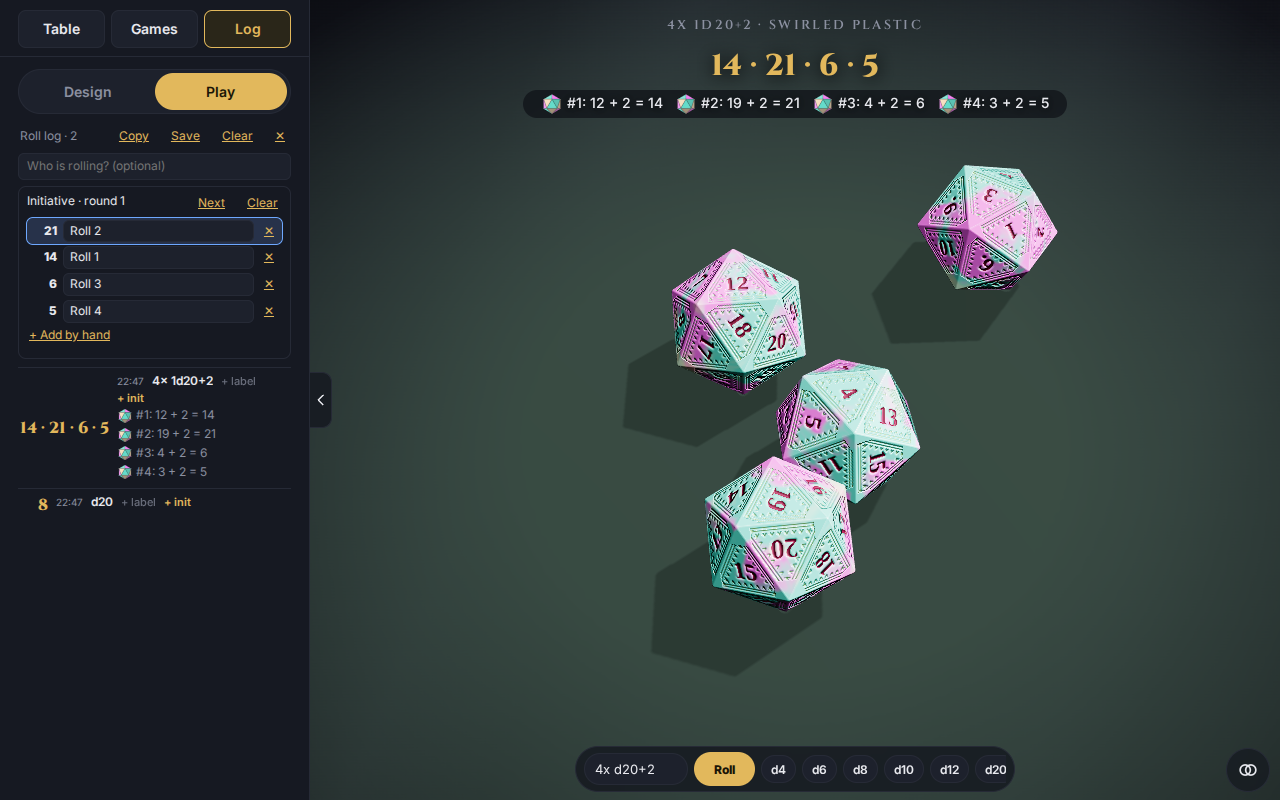
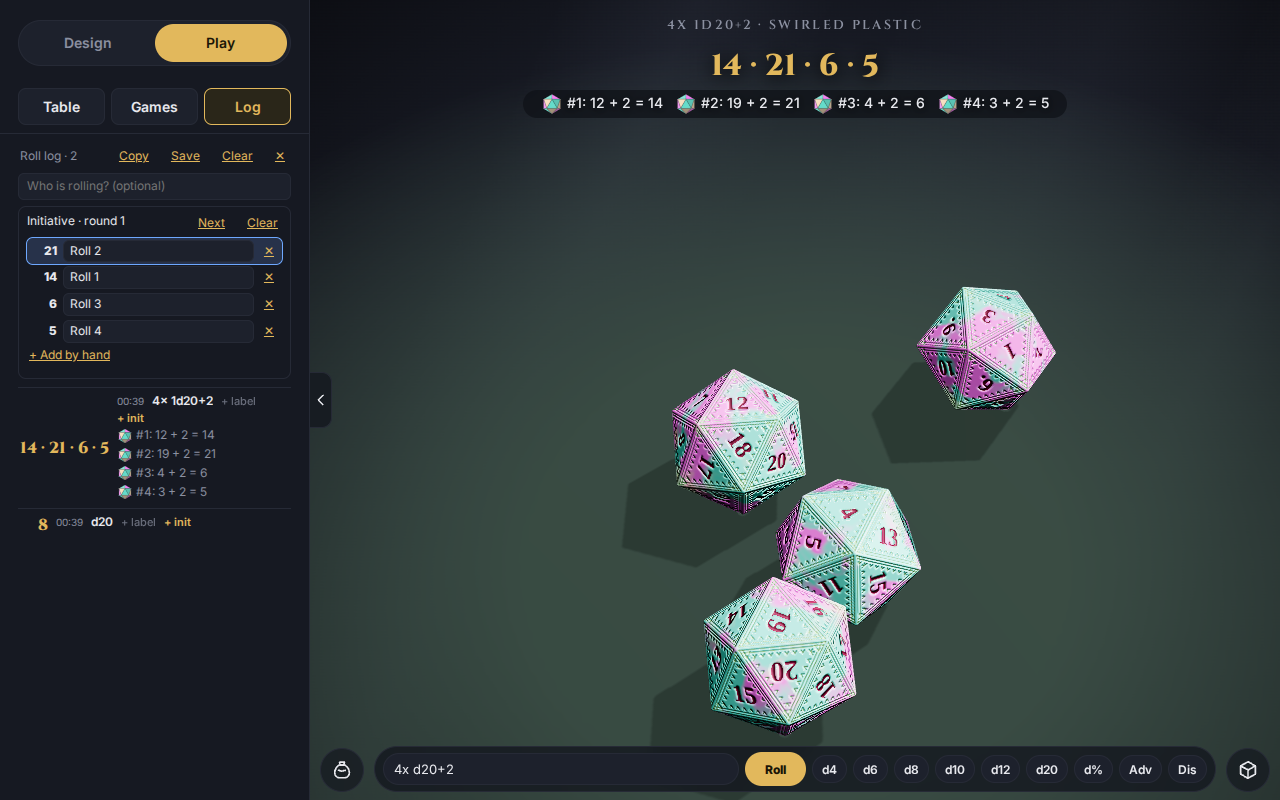
Play view: resting dice sit ~40% up from the bottom instead of ~55% (PD-142.38.61)

diff --git a/index.html b/index.html
@@ -2118,6 +2118,7 @@ const NEW_FEATURES=[   // PD-142.38.31: only changes since artifact v19 that the
   {id:'PD-142.38.24', rev:1, anchor:'#cat-base', text:'The design controls are now sorted into two category sections. BASE (the die body): Substrate; Colors (base colours + Randomize, Swirl scale, Edge radius, Finish); Stone; Epoxy; Face panel & patina (Face panel, Panel depth, Patina, Antique relief preset); Filigree. NUMBERS (the numerals): Paint numbers, Number paint, Paint mode (Paint numbers comes first now), Font, d4 numbers, d6 faces, Size, Rotation, Depth, Edge softness, Number style (Inset / Raised; the old "Numbers" selector in Relief). Nothing else changed: same controls, ids and saved designs. Check: Design pane, scroll through Base then Numbers and say if any control belongs on the other side.', card:'PD-142.38.24'},
   {id:'PD-142.38.58', rev:1, anchor:'#name', text:'On a phone the hold-to-look-from-above handle (the small eye) moved from the top-left of the mat to the top-right corner, a bigger thumb target that a right thumb can hold without covering the dice. The title, the game status line and the corner controls now keep clear of it. Check: on a phone, Play, press and hold the eye at the top right: the controls fade and the dice are seen from above; let go to return.', card:'PD-142.38.58'},
   {id:'PD-142.38.59', rev:1, anchor:'#name', text:'On a phone the "Fix n leaning dice" chip and the "n held \u00B7 release" chip moved to the top-right corner, stacked under the look-from-above eye, clear of the title and the status line. The held chip is now the same gold as the held ring on the mat (it was orange). Check: on a phone, Play, hold a die (long press) and roll until one leans: both chips sit at the top right.', card:'PD-142.38.59'},
+  {id:'PD-142.38.61', rev:1, anchor:'#name', text:'In Play the dice now sit lower in the frame: a resting die is about 40% up from the bottom of the table view instead of about 55%, with the pane open, in Full view and on a phone (portrait and landscape). The Design showcase and the hold-to-look-from-above view are unchanged. Check: Play, roll and flick; the dice should not clip at the top or bottom and the dock and cards stay clear.', card:'PD-142.38.61'},
   {id:'PD-142.38.56', rev:1, anchor:'#undo', text:'On a phone the Undo / Redo strip now scrolls away with the Design pane instead of staying stuck at the top, which gives the controls about 56 px more room. Scroll back up to reach it; the keyboard shortcuts still work, and desktop keeps the strip in view. Check: on a phone, Design, scroll the pane down and back up.', card:'PD-142.38.56'},
   {id:'PD-142.38.55', rev:1, anchor:'#shapes', text:'On a phone, tapping a Shape button (or any other control in the settings pane) no longer jumps the pane back to the top: the pane stays where you scrolled it. The pane also scrolls up and down only now; a sideways drag does nothing. Check: on a phone, scroll the Design pane down, tap Shape buttons, Adv / Dis, the Custom +/- chips, then drag sideways.', card:'PD-142.38.55'},
   {id:'PD-142.38.54', rev:1, anchor:'#bagbtn', text:'The grey "UI paused" diagnostics note now appears at the top centre instead of over the round Bag button, so the Bag button stays tappable after a slow moment. Check: after the page has paused (a big bag loading), the Bag button opens the Bag view at once.', card:'PD-142.38.54'},
@@ -2233,6 +2234,7 @@ new ResizeObserver(resize).observe(stage); resize();
 addEventListener('resize',()=>{ resize(); }); addEventListener('orientationchange',()=>setTimeout(()=>{ resize(); window.scrollTo(0,0); },250)); if(window.visualViewport) visualViewport.addEventListener('resize',resize);
 
 /* ---------- physics roll (cannon-es) ---------- */
+const ROLL_DROP=.15;   // PD-142.38.61: fraction of the view height the roll view's dice are moved down
 let topHold=false, topBlend=0;     // hold the total (or the t key) in the roll view: the camera swings straight overhead to check the dice, and returns on release
 function holdTop(on){ topHold=!!on&&rolling; $('result').classList.toggle('peek',topHold); document.body.classList.toggle('peek',topHold); }
 let placed=false, placing=false;   // placed: the dice are set out on the mat at rest, no roll yet (the next roll throws them from where they lie)
@@ -2751,7 +2753,8 @@ const loop=(t,dtOver)=>{          // dtOver: fixed step from the test API (__pd.
       const sx=Math.cos(th), sz=-Math.sin(th), ux=Math.sin(th), uz=Math.cos(th), tv=Math.tan(THREE.MathUtils.degToRad(camera.fov/2)); let wx=0, wu=0;
       for(const d of dice){ const p=d.mesh.position, rad=(d.r||1)*1.15; wx=Math.max(wx,Math.abs((p.x-tgt.x)*sx+(p.z-tgt.z)*sz)+rad); wu=Math.max(wu,Math.abs((p.x-tgt.x)*ux+(p.z-tgt.z)*uz)+rad); }
       rr=L(r,Math.max(r,1.08*Math.max(wx/(tv*camera.aspect),wu/tv)/Math.sin(ph)),topBlend); }
-    camera.position.set(tgt.x+rr*Math.cos(ph)*Math.sin(th),tgt.y+rr*Math.sin(ph),tgt.z+rr*Math.cos(ph)*Math.cos(th)); camera.lookAt(tgt); }
+    camera.position.set(tgt.x+rr*Math.cos(ph)*Math.sin(th),tgt.y+rr*Math.sin(ph),tgt.z+rr*Math.cos(ph)*Math.cos(th)); camera.lookAt(tgt);
+    { const drop=ROLL_DROP*camBlend*(1-topBlend); if(drop>.0005){ const up=new THREE.Vector3(0,1,0).applyQuaternion(camera.quaternion); camera.lookAt(tgt.clone().addScaledVector(up,drop*2*Math.tan(THREE.MathUtils.degToRad(camera.fov/2))*rr)); } } }   /* PD-142.38.61: aim the camera a little above the mat centre so the dice sit lower in the frame (resting dice ~40% up from the bottom instead of ~55%); the Design showcase and the top-down check are untouched */
   table.visible=camBlend>.01; table.material.opacity=camBlend;
   renderer.render(scene,camera);
 };
@@ -3155,7 +3158,7 @@ function renderTurn(S,st,over){
   S.players.forEach((nm,p)=>{ const cur=p===st.player&&!over, tr=gel('tr'); tr.append(gel('td',{textContent:nm,className:cur?'cur':''}),gel('td',{textContent:String(st.scores[p]),className:cur?'cur':''})); body.append(tr); });
   tb.append(body); GP.append(tb); }
 document.addEventListener('pd-open-games',()=>{ if(game){ game.setup=true; } if(roomNow()==='design') goPlay(); paneAuto=true; renderGame(); });   // the Games tab belongs to the Play room
-window.__pd={RING_COLORS,state,dockRoll,uScale:U.uScale,holdTop,get topBlend(){return topBlend;},get camera(){return camera;},key,BASE_KEY,SHAPES,SUBSTRATES,STONES,FONTS,views,orbit,canvas:cv,rig,fx,triggerFx,updateFx,rerollLeans,TABLE_Y,
+window.__pd={ROLL_DROP,RING_COLORS,state,dockRoll,uScale:U.uScale,holdTop,get topBlend(){return topBlend;},get camera(){return camera;},key,BASE_KEY,SHAPES,SUBSTRATES,STONES,FONTS,views,orbit,canvas:cv,rig,fx,triggerFx,updateFx,rerollLeans,TABLE_Y,
   keepSum,fmtNotation,initOps,lookupTable,logText,designToJSON,loadDesign,parseBag,importBag,bagToJSON,bagFileJSON,bagOps,setOps,renderLog,botStep,botPump,gviewer,dieChip,renderDesignPicture,PIC_Q,picGear,picDie,bagActivate:activate,isModified,get bag(){return bag;},save,updateThumbs,get thumbs(){return thumbs;},get thumbBusy(){return thumbBusy;},get camBlend(){return camBlend;}, set camBlend(v){ camBlend=v; topBlend=0; table.visible=v>.01; table.material.opacity=v; },thumbKey,randomize,buildDice,applyLook,startRoll,exitRoll,undo,redo,snapshot,checkpoint,parseNotation,exportImage,setSubstrate,setStone,ensurePalette,setFull,setShake,
   get dice(){return dice;}, get leans(){return [...leanDice];}, finishRoll, drift(n){ for(let i=0;i<n;i++){ world.step(1/60); if(settled&&leanRings.length) refreshLeans(); } },   // what the live loop does after a roll has settled
   get held(){return [...held];}, reskinDie, dieMenu, dieScreen, crapsCallout, get heldPose(){return heldPose;}, get faces(){ return readResult().map(p=>p.label); }, get restoring(){return !!restoring;}, get restoreTries(){return restoreTries;}, GAMES, get game(){return game;}, startGame, endGame, gameScore, openGames(){ document.dispatchEvent(new CustomEvent('pd-open-games')); }, markLean(i){ leanDice[i]=true; showLeans(); updateHoldUI(); }, RING_COLORS, get holdRingsVisible(){return holdRings.filter(m=>m.visible).length;}, get leanRingCount(){return leanRings.length;}, bodyScreen(i){ const b=bodies[i].position, v=new THREE.Vector3(b.x,b.y,b.z).project(camera), r=cv.getBoundingClientRect(); return {x:r.left+(v.x+1)/2*r.width, y:r.top+(1-v.y)/2*r.height}; }, toggleHold, clearHolds, pickDie, get holdRings(){return holdRings.length;},
